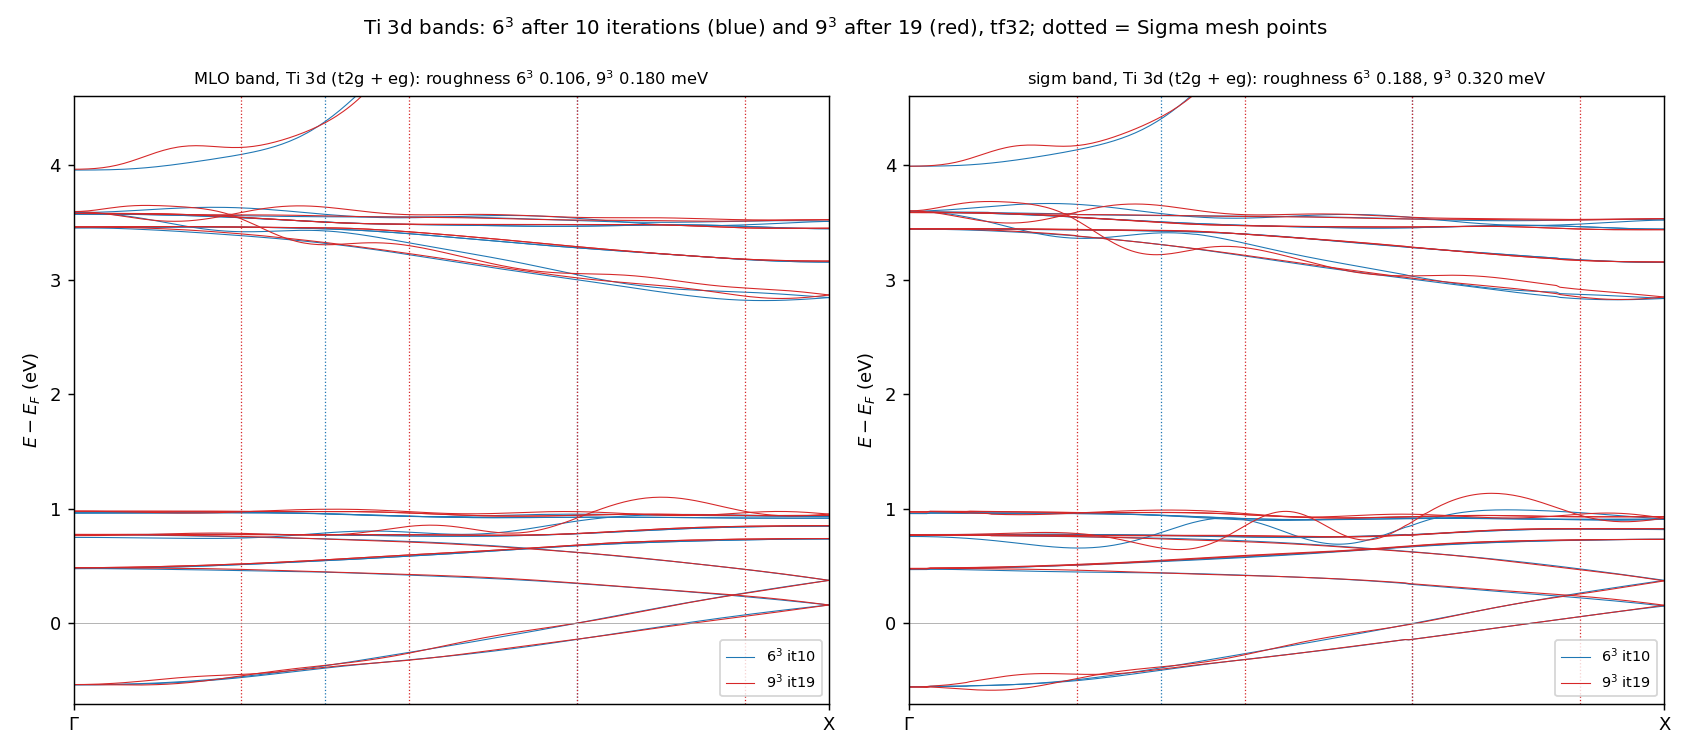
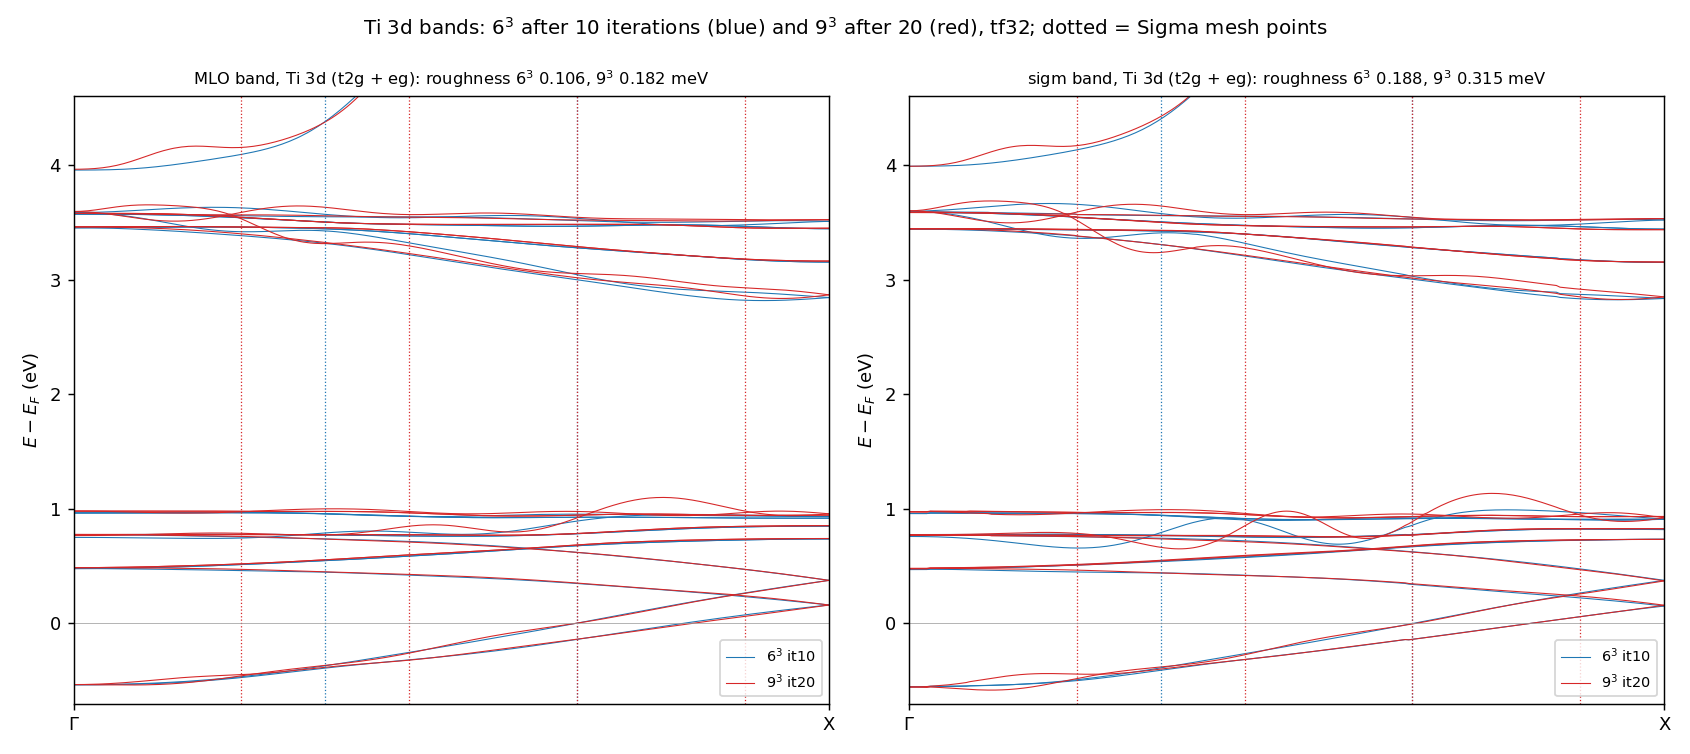
kBT_research: 9^3 continuation iteration 20 (the occupied pair has settled near the 6^3 shape; the 1 eV bump stays); table of iterations 10-20

diff --git a/Samples/kBT/kBT_research.md b/Samples/kBT/kBT_research.md
@@ -83,6 +83,26 @@
 
 （夜の TODO: 6³・9³ の tf32 の収束、FP16 の確かめ (a)〜(c)、検証、kBT の残り、ファイルの統一、速さの残り、文書の整理）
 
+### 07:22 **9³ の続き、反復 20: 占有の 2 本は落ち着いた（反復ごとの変化 最大 2.1・rms 0.9 meV）。交差はほどけて 6³ に近い形。1 eV の空のバンドのこぶ（1.099 eV）は残る**
+
+*表 07:22-1* 9³ tf32 の反復 10〜20（MLO バンド）: 占有の t2g の 2 本
+
+| 反復 | 沈み込み（meV） | 荒れ（meV） | 2 本の差 x = 2/9 / 1/3 / 4/9（meV） | 前の反復からの変化 最大（meV） | ehf（eV） |
+| --- | --- | --- | --- | --- | --- |
+| 10 | 6.1 | 0.139 | — | — | −109762.263 |
+| 14 | 12.0 | 0.141 | 49.0 / 4.8 / 60.1 | 4.9 | −109762.934 |
+| 15 | 10.3 | 0.131 | 40.7 / 7.5 / 60.4 | 8.2 | −109763.045 |
+| 16 | 8.3 | 0.137 | 31.2 / 10.5 / 60.7 | 9.6 | −109763.128 |
+| 17 | 6.7 | 0.129 | 21.8 / 13.6 / 60.5 | 9.5 | −109763.197 |
+| 18 | 5.0 | 0.130 | 15.5 / 15.1 / 60.5 | 6.7 | −109763.274 |
+| 19 | 4.1 | 0.135 | 11.3 / 16.1 / 60.5 | 4.6 | −109763.316 |
+| 20 | 3.5 | 0.136 | 9.4 / 16.2 / 60.7 | 2.1 | −109763.348 |
+| 6³ 反復 10 | 0 | 0.083 | 7.6 / 20.4 / 64.5 | — | — |
+
+- 反復 20（07:19 に終わり、1256 秒）。反復 11〜13 で交差が右へ動いて沈み込みが 13 meV まで育ち、14 から縮んで 20 でほぼ 6³ の形になった
+- 1 eV 付近の空の t2g のこぶ（x ≈ 0.72）は反復 15〜20 で 1.10 eV のまま動かない。eg 側のうねりも残る（図 05:37-2 の形、d 全体の図を更新）
+- 21〜25 は 07:21 に自動で始まった
+
 ### 06:59 **9³ を反復 25 まで続けるよう、21〜25 を 20 の後に待機させた**
 
 - 占有の 2 本はまだ一定の割合で動き、ehf も 1 反復 0.04〜0.08 eV 下がっているため（user「15 でも振動が収まらないなら継続する」「999 は継続がいる」）。
